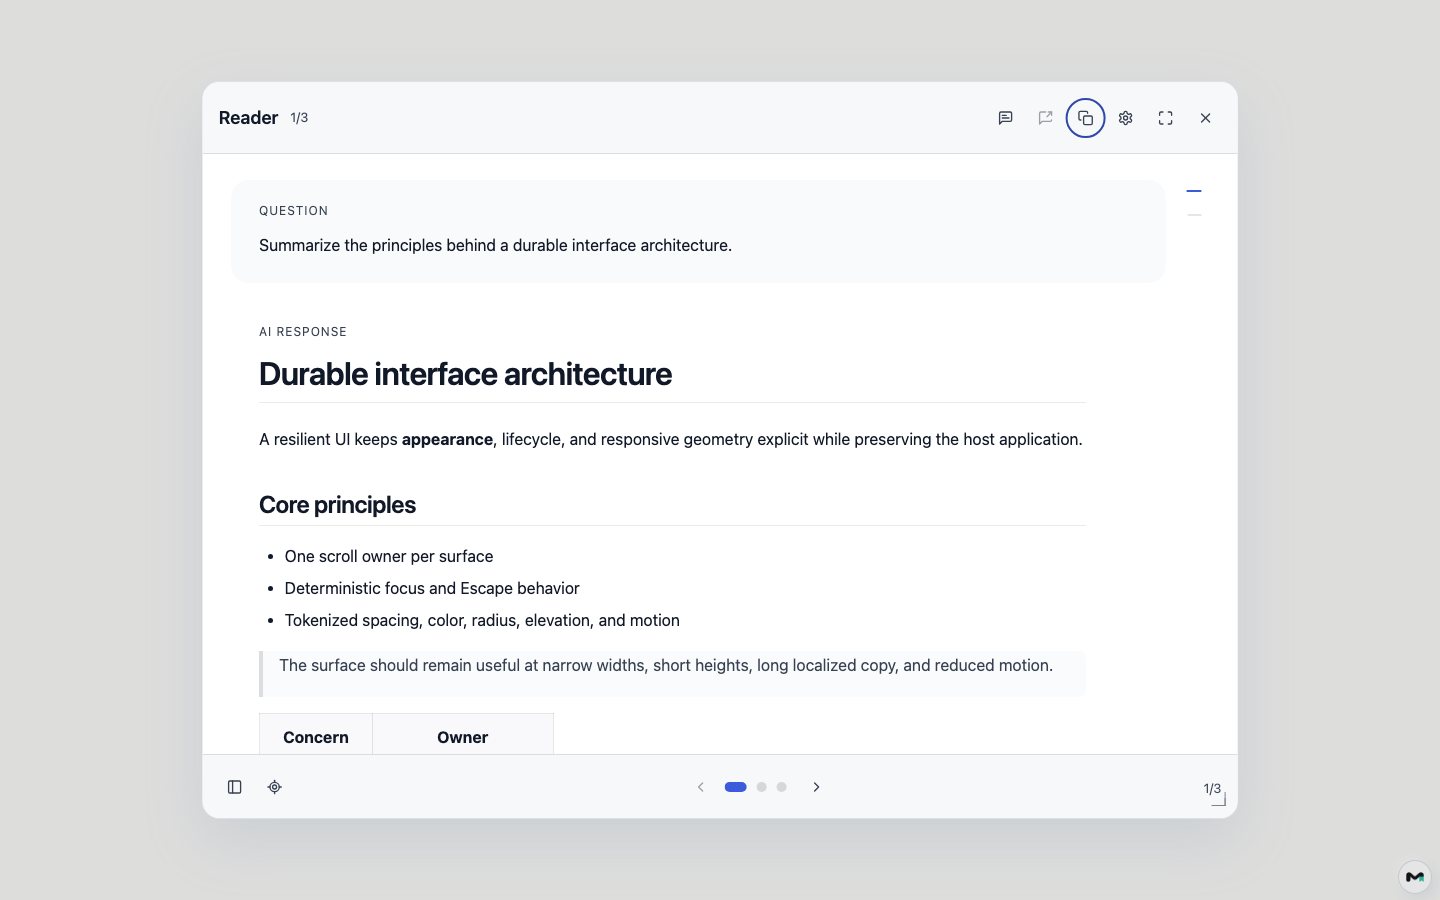
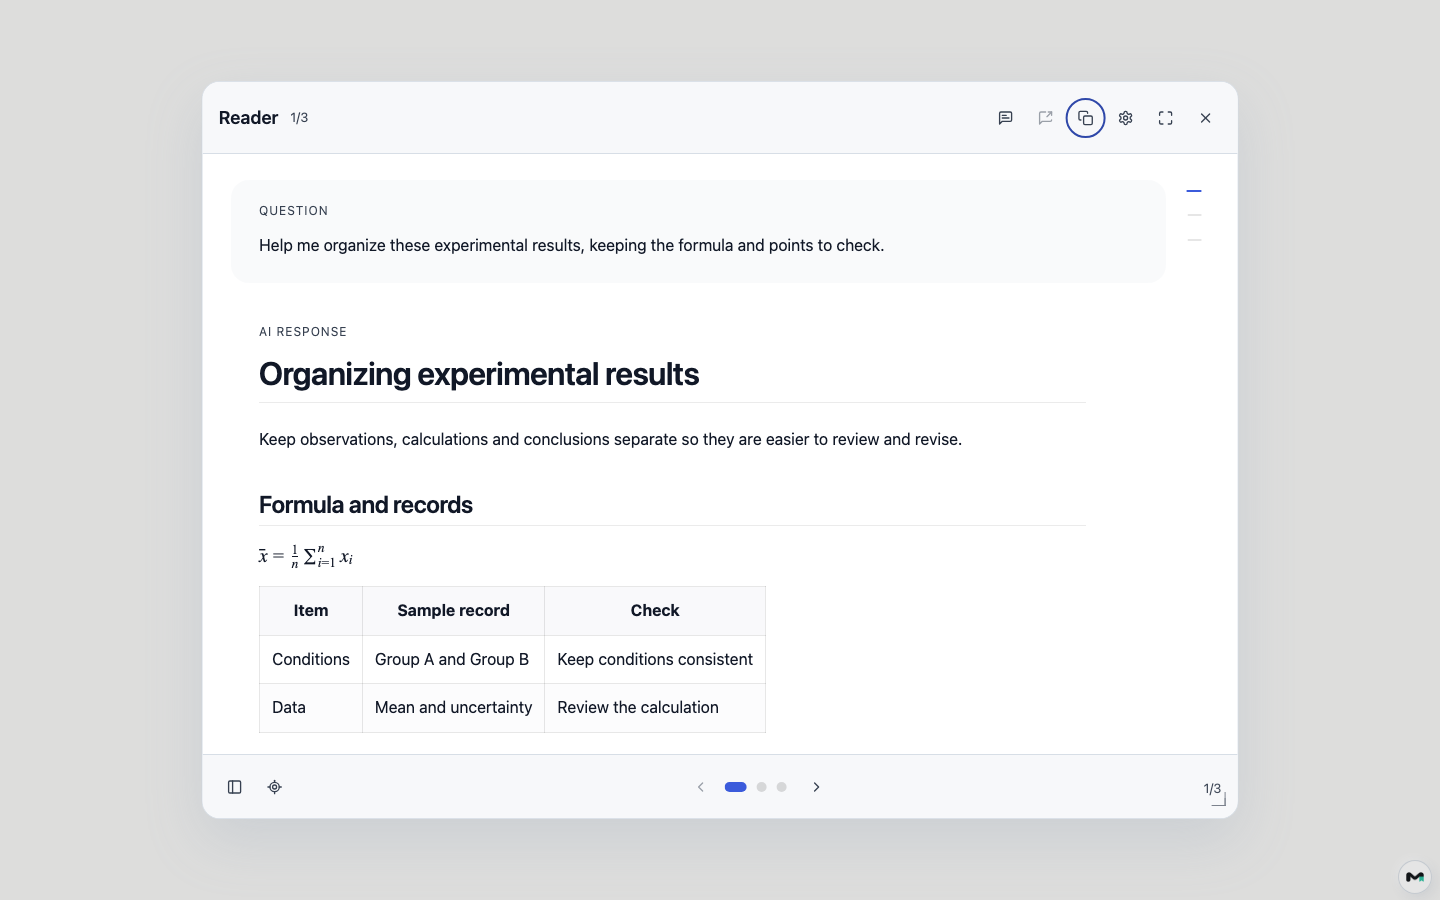
Finalize README release section and refresh demonstration screenshots

diff --git a/docs/reviews/2026-10-12-readme-reference-review.md b/docs/reviews/2026-10-12-readme-reference-review.md
@@ -34,9 +34,9 @@ placed in the product README.
 - Header with the product logo, concise description, Chrome/Firefox install
   buttons, website/docs/release/issue/language links, MIT and actual repository
   star badges.
-- Internal navigation and a browser install table with dynamic store-version
-  badges. The branch's 6.2.0 preparation status remains distinct from published
-  store/release versions.
+- Internal navigation and a browser install table. Version numbers, preparation
+  status and release summaries are confined to a dedicated changelog section
+  after the final user review; installation/version badges were removed.
 - A full-width Reader screenshot and eight linked feature groups. Settings
   screenshots are collapsible; every feature name links to the actual manual
   page in the corresponding language.
@@ -50,8 +50,8 @@ placed in the product README.
 
 ## Screenshot provenance
 
-Added four screenshots under `imgs/readme/`, copied without image modification
-from the accepted Chrome production-component visual runs:
+The initial four screenshots under `imgs/readme/` were copied from the accepted
+Chrome production-component visual runs:
 
 - `reader.en.png` and `reader.zh.png`: `full-chromium-2026-10-12T08-57-59-833Z`,
   Reader panel, desktop 1440px, light, English/Chinese, normal motion.
@@ -60,6 +60,22 @@ from the accepted Chrome production-component visual runs:
 
 Captions identify demonstration content. No private live conversation data or
 invented UI is used. Existing historical screenshot files are retained.
+
+At final prepublication review on 2026-10-12 all four were recaptured from the
+current production-component fixtures. Reader uses a research-style sample
+reply, localized in Chinese/English, showing headings, an actual KaTeX mean
+formula and a table in the first viewport. A temporary Vite transform replaced
+only the fixture's test data; no tracked mock or runtime implementation changed.
+The original production toolbar trigger and ReaderPanel path remain in use.
+Settings uses the unmodified current primary-view fixture; its new images are
+byte-identical to the existing assets.
+
+All four captures use 1440x900, light theme and reduced motion. Each had one
+visible dialog, no page/console errors, zero horizontal overflow and in-viewport
+bounds. Reader formula rendering was asserted. The resulting images were
+visually reviewed; temporary servers and isolated browsers were closed. Capture
+script, JSON and hashes are retained in the task's local artifact directory.
+
 
 ## Verification and boundaries
 
@@ -71,3 +87,12 @@ links/images: 10 per README. Documentation governance/content checks passed
 2 files / 10 tests. Markdown diff whitespace checks passed. No production build
 was rerun for this documentation/assets-only pass. No main merge, tag, push or publication is authorized
 or performed by this README pass.
+
+
+## Final version-placement check
+
+The user required version information to live in one stable changelog module.
+Both READMEs now use a fixed Changelog/更新日志 heading, with 6.2.0 and its status
+inside it. Installation and feature prose contain no concrete release number or
+preparation statement, and the install table has no version-badge column.
+The writing authority records this rule for future updates.

diff --git a/README.zh.md b/README.zh.md
@@ -15,16 +15,16 @@
 
 AI-MarkDone 是一个免费、开源的 ChatGPT 浏览器扩展，用来阅读长回复、复制公式与代码、标记重点，以及保存和导出有用的内容。常用按钮可以按自己的习惯隐藏或固定。
 
-[安装](#安装) · [功能亮点](#功能亮点) · [快速开始](#快速开始) · [常见问题](#常见问题) · [开发与贡献](#开发与贡献) · [支持项目](#支持项目)
+[安装](#安装) · [功能亮点](#功能亮点) · [快速开始](#快速开始) · [常见问题](#常见问题) · [更新日志](#更新日志) · [开发与贡献](#开发与贡献) · [支持项目](#支持项目)
 
 ## 安装
 
-| 浏览器 | 下载 | 商店版本 |
-| --- | --- | --- |
-| Chrome | [Chrome Web Store][chrome-store] | [![Chrome 商店版本](https://img.shields.io/chrome-web-store/v/bmdhdihdbhjbkfaaainidcjbgidkbeoh?label=version)][chrome-store] |
-| Firefox | [Firefox Add-ons][firefox-store] | [![Firefox 商店版本](https://img.shields.io/amo/v/ai-markdone?label=version)][firefox-store] |
+| 浏览器 | 下载 |
+| --- | --- |
+| Chrome | [Chrome Web Store][chrome-store] |
+| Firefox | [Firefox Add-ons][firefox-store] |
 
-安装后刷新 ChatGPT 页面即可使用。当前分支正在准备 **6.2.0**，商店和 [GitHub Releases][releases] 的实际版本以对应页面为准。支持 Chrome 和 Firefox，Safari 不再适配。
+安装后刷新 ChatGPT 页面即可使用。支持 Chrome 和 Firefox，Safari 不再适配。
 
 ## 功能亮点
 
@@ -93,7 +93,11 @@ PDF 通过浏览器打印窗口保存。PNG 尽量将所选回复合成一张长
 
 </details>
 
-## 6.2.0
+## 更新日志
+
+### 6.2.0
+
+当前分支正在准备此版本，商店和 [GitHub Releases][releases] 的实际版本以对应页面为准。
 
 - 注释窗口可拖动、最小化和恢复草稿，点击框外不再关闭。
 - 支持的图表、卡片可保存为离线 Markdown ZIP，PDF／PNG 可选图片或文字占位。

diff --git a/docs/WRITING.md b/docs/WRITING.md
@@ -32,7 +32,7 @@ Historical release records, user-authored prompts, custom templates and stored c
 
 - `README.md` remains the English GitHub entry; `README.zh.md` is the independent Chinese version, as confirmed on 2026-10-12. Keep their scope, entrypoints, saving rules and installation guidance aligned without forcing a literal translation.
 - Treat README as a project landing page: a short product introduction, prominent installation links, screenshots, linked feature highlights and a compact getting-started section. Keep the author's reasons in the later support/about area; move detailed operating and saving rules into linked docs or collapsed FAQ. This replaces the longer personal-introduction structure after the 2026-10-12 reference review.
-- Distinguish a version being prepared on a branch from a version available in a store or GitHub Release. Installation instructions must work for published artifacts; temporary Firefox loading belongs to development guidance.
+- Keep version numbers, release status and update summaries inside one dedicated README changelog section; do not scatter them through installation or feature prose or installation badges. Distinguish a version being prepared on a branch from a version available in a store or GitHub Release. Installation instructions must work for published artifacts; temporary Firefox loading belongs to development guidance.
 - Keep `CHANGELOG.md` in concise English Added/Changed/Fixed sections. The bilingual release notes and in-app changelogs may use the author's conversational opening and practical numbered updates. Preserve feedback credits and previous release records.
 - Versioned store-copy drafts live under `release/`. Names and short descriptions follow the locale catalog; long descriptions follow current feature and saving contracts, rather than stale public listings. Where stores have different installed versions, prepare the appropriate cumulative update summary.
 

diff --git a/README.md b/README.md
@@ -15,16 +15,16 @@
 
 AI-MarkDone is a free, open-source browser extension for ChatGPT. Read long replies, copy formulas and code, mark important passages, and save or export useful content. Hide or pin controls to suit the way you work.
 
-[Install](#install) · [Highlights](#highlights) · [Getting started](#getting-started) · [FAQ](#faq) · [Development](#development) · [Support](#support)
+[Install](#install) · [Highlights](#highlights) · [Getting started](#getting-started) · [FAQ](#faq) · [Changelog](#changelog) · [Development](#development) · [Support](#support)
 
 ## Install
 
-| Browser | Download | Store version |
-| --- | --- | --- |
-| Chrome | [Chrome Web Store][chrome-store] | [![Chrome store version](https://img.shields.io/chrome-web-store/v/bmdhdihdbhjbkfaaainidcjbgidkbeoh?label=version)][chrome-store] |
-| Firefox | [Firefox Add-ons][firefox-store] | [![Firefox store version](https://img.shields.io/amo/v/ai-markdone?label=version)][firefox-store] |
+| Browser | Download |
+| --- | --- |
+| Chrome | [Chrome Web Store][chrome-store] |
+| Firefox | [Firefox Add-ons][firefox-store] |
 
-Refresh ChatGPT after installation. This branch is preparing **6.2.0**; check the stores and [GitHub Releases][releases] for the versions available to install. Chrome and Firefox are supported. Safari support has ended.
+Refresh ChatGPT after installation. Chrome and Firefox are supported. Safari support has ended.
 
 ## Highlights
 
@@ -93,7 +93,11 @@ The directory adds replies as the website loads them; unavailable history may no
 
 </details>
 
-## 6.2.0
+## Changelog
+
+### 6.2.0
+
+This release is being prepared on the current branch. Check the stores and [GitHub Releases][releases] for published versions.
 
 - Move or minimize the annotation window, recover drafts and keep it open when clicking outside.
 - Save supported charts/cards in an offline Markdown ZIP; choose images or placeholders in PDF/PNG.

diff --git a/release/AI-MarkDone-v6.2.0-PREPARATION.md b/release/AI-MarkDone-v6.2.0-PREPARATION.md
@@ -65,3 +65,15 @@
 按用户新要求，对标 Refined GitHub 和 SingleFile 的 README 组织方式，将长篇个人介绍与使用说明改为安装入口、截图、功能概览、快速开始和折叠 FAQ。英文仍为首页，中文独立；增加两种语言的当前阅读器和设置演示截图，功能名称直接链接到对应手册。
 
 参考依据与截图来源见 [README 对标记录](../docs/reviews/2026-10-12-readme-reference-review.md)。本轮不再改动 6.2.0 更新说明或插件内文案，安装包和校验和保持上一轮已验证版本。
+
+
+### 发版前 README 与图片收尾
+
+- 版本号、准备状态和更新摘要集中到固定“更新日志”章节；安装区和功能正文移除具体版本信息与版本徽章。英文同步。
+- 四张中英文演示图均从当前生产组件重新截取，阅读器改用实验结果整理示例，首屏展示实际公式和表格。设置页重截图像与现存文件一致。
+- 四个截图场景无页面/控制台错误、无横向溢出，面板边界正常；生产组件和功能逻辑不改动。
+- 插件内 6.2.0 日志保持已审读的九条内容，本轮仅打印供维护者确认。
+- 用户此前的“暂不合并 main”限制尚未明确解除；正式合并、标签和公开发布留待明确确认。
+
+
+收尾验证：文档测试 10 项通过；重新运行 `release:verify`，冒烟 54、验收 471 与两端构建通过。版本信息位置、链接与锚点检查通过。两个 ZIP 各 111 个文件，与最终构建逐文件一致，原 SHA-256 继续有效。功能代码和插件内日志没有新增改动。

diff --git a/docs/reviews/2026-10-12-6.2.0-release-readiness.md b/docs/reviews/2026-10-12-6.2.0-release-readiness.md
@@ -244,3 +244,18 @@ replace the previous long introduction. Release notes, in-app copy, store drafts
 production behavior and verified 6.2.0 archives remain unchanged. Documentation
 checks passed 10 tests, GFM/HTML and local link/anchor checks passed; no main merge,
 tag, push or publication occurred.
+
+
+## Final README/version/screenshot review
+
+Concrete release information moved exclusively into the fixed bilingual README
+changelog module. Current production-component screenshots were recaptured in
+both languages; Reader's research sample shows headings, rendered math and a
+table, and Settings remains unchanged. Four screenshot audits passed with zero
+console/page errors or overflow. See the updated reference review for provenance.
+Documentation tests passed 10 cases. Fresh release:verify passed smoke 54,
+acceptance 471 and both production builds with entry/content-boundary gates.
+Both 111-entry archives match the fresh dist byte-for-byte; recorded SHA-256
+sums remain unchanged. Version-placement, local-link and anchor checks passed. In-extension 6.2.0 copy is unchanged and
+will be printed for maintainer review. The earlier no-main-merge instruction
+requires explicit clearance before merging, tagging or public release.
